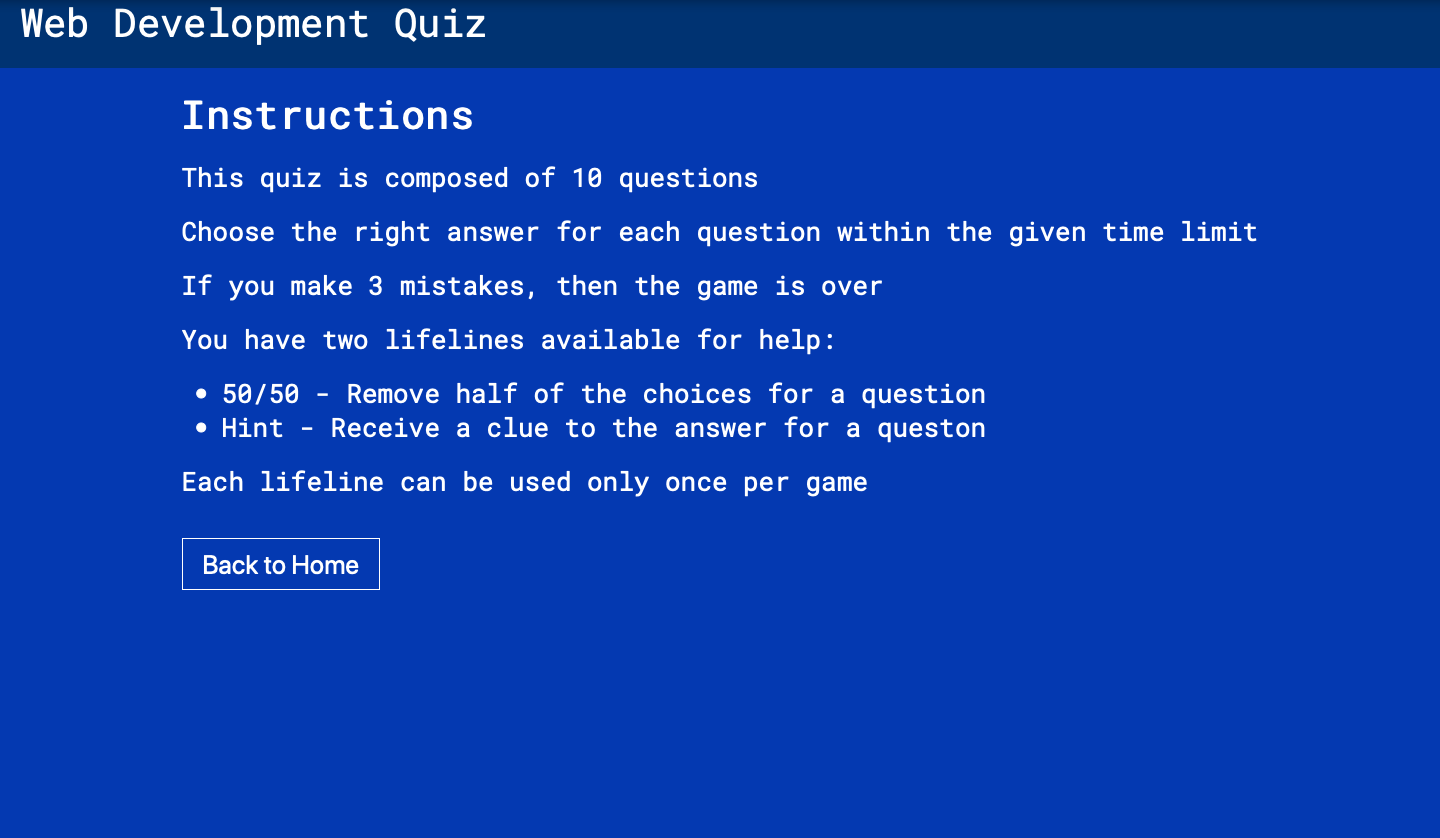
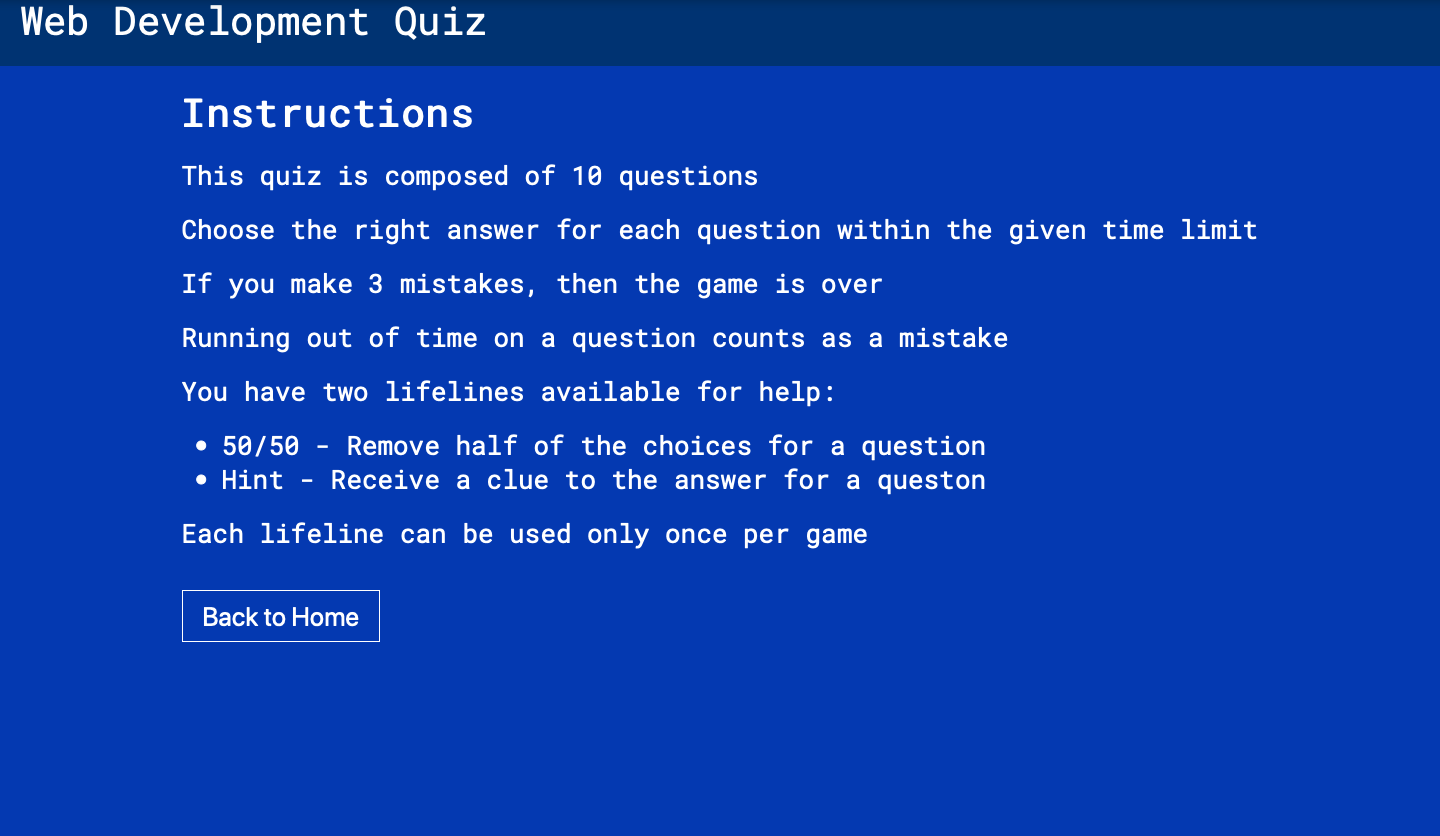
Updated images for quiz game

diff --git a/posts.html b/posts.html
@@ -45,6 +45,20 @@
         <section class="posts">
             <div class="posts__container">
                 <div class="post">
+                    <h2 class="post__heading">Updated Quiz Game</h2>
+                    <p class="post__date">Posted on 2/17/2022</p class="post__heading">
+                    <div class="post__content">
+                        <p>
+                            The lifelines in the <a href="https://bryanc123.github.io/Quiz-Game/">quiz game</a> are now displayed in a model. I feel that this change has resulted
+                            in a slightly cleaner UI.
+                        </p>
+                        <p>
+                            Also, I fixed a bug in which running out of a time on a question did not increment the number of mistakes
+                            that the player has made.
+                        </p>
+                    </div>
+                </div>
+                <div class="post">
                     <h2 class="post__heading">Pagination</h2>
                     <p class="post__date">Posted on 2/16/2022</p class="post__heading">
                     <div class="post__content">

diff --git a/style.css b/style.css
@@ -546,6 +546,11 @@ header {
     line-height: 1.5rem;
     margin-bottom: 20px;
 }
+.post__content a {
+    text-decoration: none;
+}.post__content a:hover {
+    text-decoration: underline;
+}
 
 /* About */
 
